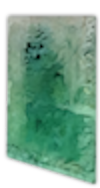
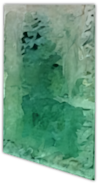
Finalized frontend

diff --git a/frontendmain.py b/frontendmain.py
@@ -16,6 +16,7 @@ WHITE = (255, 255, 255)
 RED = (255, 0, 0)
 GRAY = (200, 200, 200)
 BLACK = (0, 0, 0)
+GREEN = (76, 196, 134)
 
 SLIDER_WIDTH = 100
 SLIDER_HEIGHT = 10
@@ -41,7 +42,7 @@ class Slider:
     # Draw the slider
     def draw(self, screen):
         pygame.draw.rect(screen, GRAY, self.rect, border_radius=5)
-        pygame.draw.circle(screen, (76, 196, 134), (self.knobPos, self.pos[1] + SLIDER_HEIGHT // 2), KNOB_RADIUS)
+        pygame.draw.circle(screen, GREEN, (self.knobPos, self.pos[1] + SLIDER_HEIGHT // 2), KNOB_RADIUS)
         numberText = SLIDER_NUMBER_FONT.render(str(self.value), True, BLACK)
         screen.blit(numberText, (self.pos[0] + SLIDER_WIDTH + 20, self.pos[1] - 5))
 
@@ -128,22 +129,24 @@ class Button:
 IMAGES = {}
 IMAGES['mainbackground'] = pygame.image.load('assets/mainbackground.png').convert_alpha()
 IMAGES['enc1'] = pygame.image.load('assets/enc1.png').convert_alpha()
+IMAGES['enc2'] = pygame.image.load('assets/enc2.png').convert_alpha()
+IMAGES['enc3'] = pygame.image.load('assets/enc3.png').convert_alpha()
 
 ## Page 1
 # Sliders
 sliders_1 = {}
-sliders_1[0] = Slider(100, [50, 100], "How many days have the canids been in the enclosure")
-sliders_1[1] = Slider(11, [50, 200], "How many social groups/families")
-sliders_1[2] = Slider(20, [50, 300], "How many canids in the enclosure")
+sliders_1[0] = Slider(100, [60, 140], "How many days have the canids been in the enclosure")
+sliders_1[1] = Slider(11, [60, 240], "How many social groups/families")
+sliders_1[2] = Slider(20, [60, 340], "How many canids in the enclosure")
 
 # Buttons
 buttons_1 = {}
-buttons_1[0] = Button([450, 180], [80,30], "Enclosure 1", (76, 196, 134), (154, 226, 187), (255, 249, 255))
-buttons_1[1] = Button([450 + 90, 180], [80,30], "Enclosure 2", (76, 196, 134), (154, 226, 187), (255, 249, 255))
-buttons_1[2] = Button([450 + 180, 180], [80,30], "Enclosure 3", (76, 196, 134), (154, 226, 187), (255, 249, 255))
-buttons_1[3] = Button([50, 440], [80,30], "Foxes", (76, 196, 134), (154, 226, 187), (255, 249, 255))
-buttons_1[4] = Button([160, 440], [80,30], "Coyotes", (76, 196, 134), (154, 226, 187), (255, 249, 255))
-buttons_1[5] = Button([600, 500], [100,50], "Next", (76, 196, 134), (154, 226, 187), (255, 249, 255))
+buttons_1[0] = Button([450, 180], [80,30], "Enclosure 1", GREEN, (154, 226, 187), (255, 249, 255))
+buttons_1[1] = Button([450 + 90, 180], [80,30], "Enclosure 2", GREEN, (154, 226, 187), (255, 249, 255))
+buttons_1[2] = Button([450 + 180, 180], [80,30], "Enclosure 3", GREEN, (154, 226, 187), (255, 249, 255))
+buttons_1[3] = Button([50, 440], [80,30], "Foxes", GREEN, (154, 226, 187), (255, 249, 255))
+buttons_1[4] = Button([160, 440], [80,30], "Coyotes", GREEN, (154, 226, 187), (255, 249, 255))
+buttons_1[5] = Button([575, 490], [134,64], "Next", GREEN, (154, 226, 187), (255, 249, 255))
 
 
 ################################### Useful Formulas/Functions ###################################
@@ -152,11 +155,11 @@ def createSecondPage(numFamilies, canidType): # Returns the sliders and buttons 
     slider_table = {}
     button_table = {}
     for i in range(numFamilies):
-        slider = Slider(20, [50 + 250*math.floor(i/4), 100 + i%4*100], f"How many {canidType} in family {i + 1}")
+        slider = Slider(20, [60 + 250*math.floor(i/4), 170 + i%4*70], f"How many {canidType} in family {i + 1}")
         slider_table[i] = slider
 
-    button_table[0] = Button([50, 500], [100,50], "Back", RED, GRAY, WHITE)
-    button_table[1] = Button([550, 500], [200,50], "Start Simulation", (76, 196, 134), (154, 226, 187), (255, 249, 255))
+    button_table[0] = Button([60, 500], [100,50], "Back", RED, GRAY, WHITE)
+    button_table[1] = Button([575, 490], [134,64], "Start Simulation", GREEN, (154, 226, 187), (255, 249, 255))
 
     page_2[0] = slider_table
     page_2[1] = button_table
@@ -209,7 +212,11 @@ while running:
         screen.blit(speciesSelectionText, (90, 480))
 
         if chosenEnclosure == 1:
-            screen.blit(IMAGES["enc1"], (525, 230))
+            screen.blit(IMAGES["enc1"], (525, 240))
+        elif chosenEnclosure == 2:
+            screen.blit(IMAGES["enc2"], (525, 250))
+        elif chosenEnclosure == 3:
+            screen.blit(IMAGES["enc3"], (525, 265))
 
     if page == 2:
         sliders = secondPage[0]
@@ -255,7 +262,7 @@ while running:
                     data["families"] = families
                     data["chosenCanid"] = chosenCanid
                     data["days"] = days
-                    data["chosenEnclsure"] = chosenEnclosure
+                    data["chosenEnclosure"] = chosenEnclosure
                     data["canidsPerFamily"] = canidsPerFamily
 
                     # Write back to the file

diff --git a/frontendsim.py b/frontendsim.py
@@ -37,10 +37,21 @@ numColourLegend = {
 }
 
 ################################### Simulation Variables ###################################
+# Get client data from json file
+with open("data.json", "r") as file:
+    data = json.load(file)
+
+CHOSEN_CONTAINER = data["chosenEnclosure"]
+if CHOSEN_CONTAINER == 1:
+    CHOSEN_CONTAINER = Container1
+elif CHOSEN_CONTAINER == 2:
+    CHOSEN_CONTAINER = Container2
+else:
+    CHOSEN_CONTAINER = Container3
+
 HEATMAP_SCALE = 30  # How visible the heatmap will be
 HEATMAP_COLOUR_SCALE = 0.4  # How quickly the heatmap will turn red
 HEATMAP_TRANSPARENCY_SCALE = 0.6  # How quickly the heatmap will be visible
-CHOSEN_CONTAINER = Container1
 
 # Simulation Display Variables
 X_OFFSET = 50  # Changes the x size of the environment
@@ -206,7 +217,7 @@ while running:
                     heatmapVisible = not heatmapVisible
 
                     # SAMPLE HEAT MAP
-                    rows, cols = 60, 36
+                    rows, cols = len(CHOSEN_CONTAINER), 36
                     random_base = np.random.randint(0, 21, (rows, cols))
                     smoothed_array = random_base.copy()
                     for i in range(rows):
